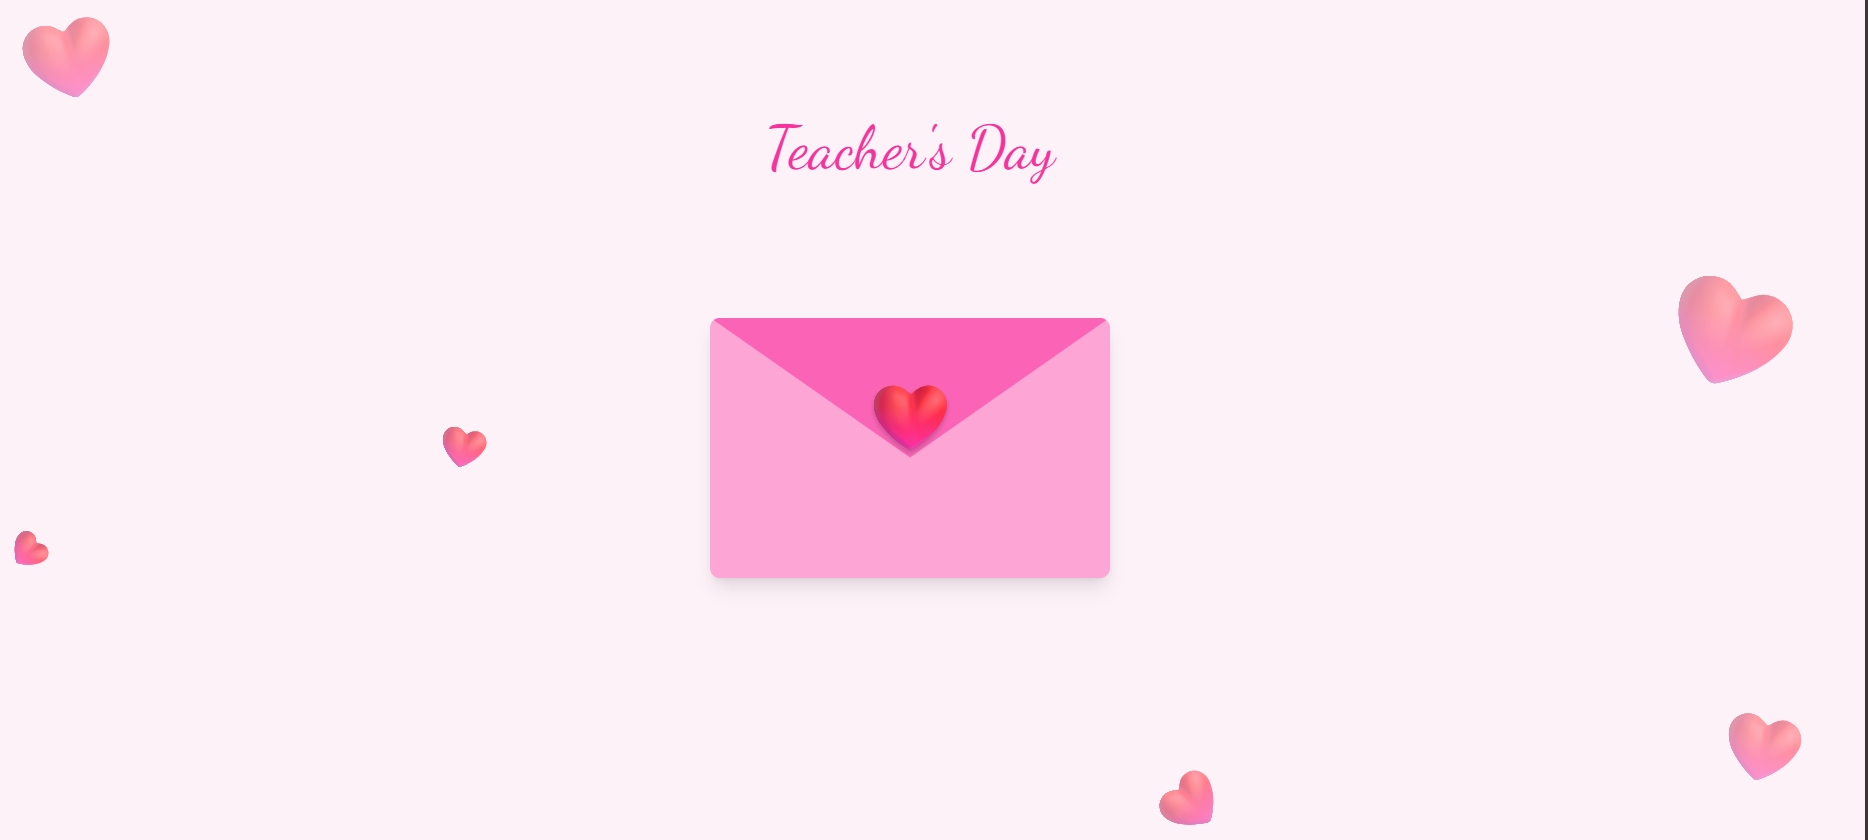
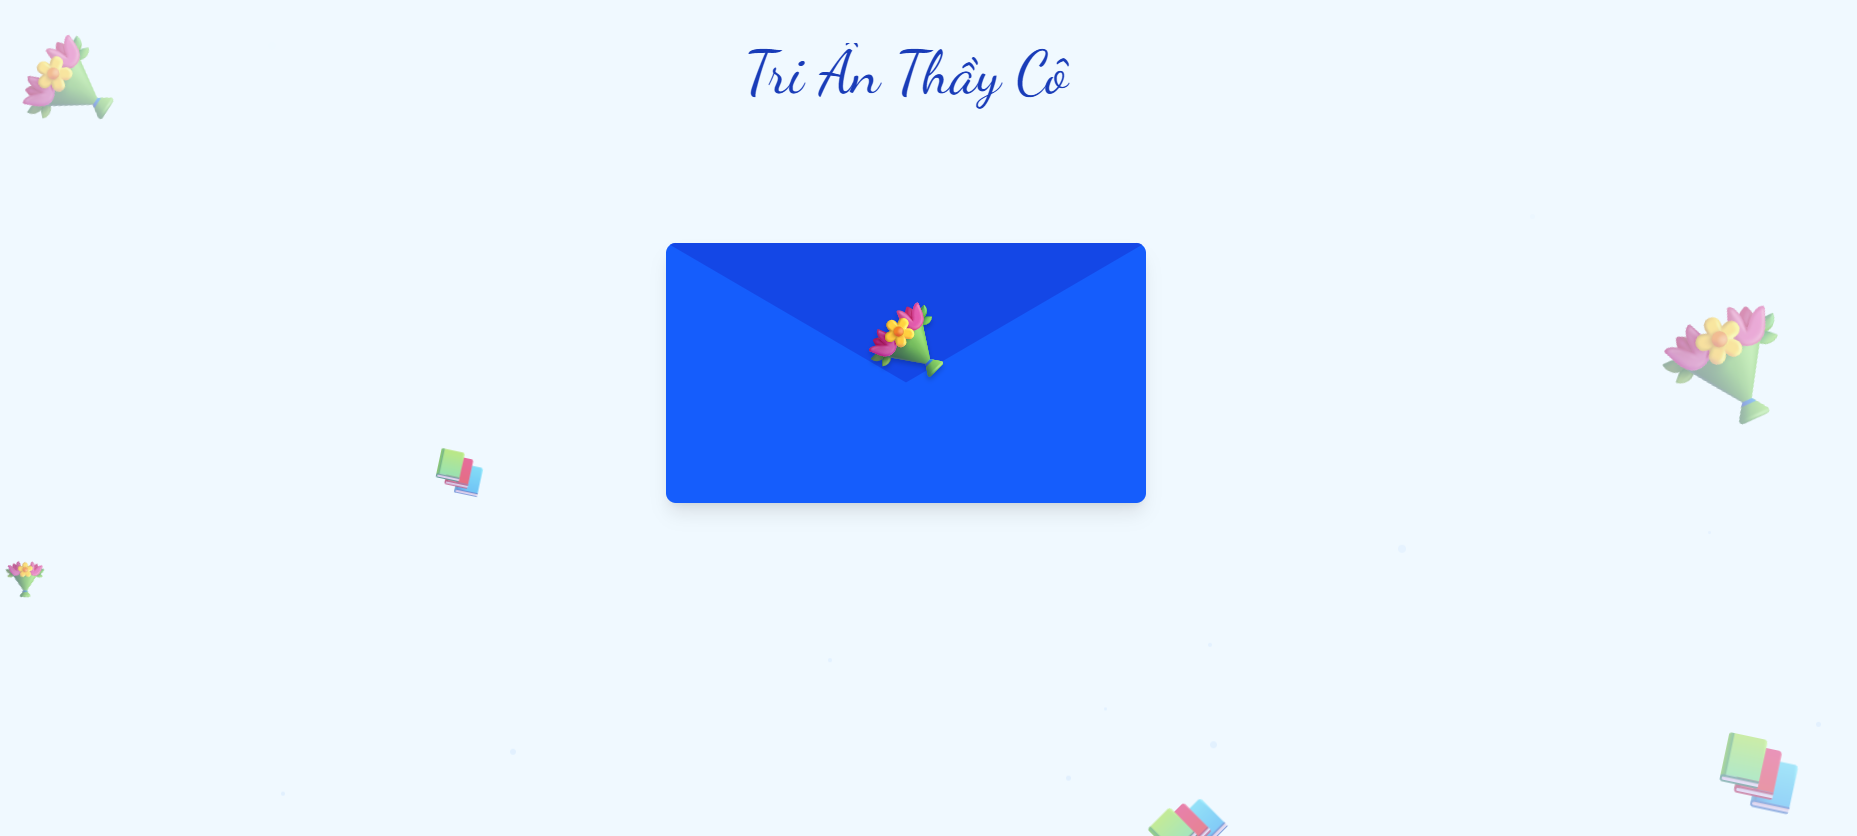
feat(template): enhance letter template
- Added audio playback on open
- Added floating icon effect
- Improved styling and animations

diff --git a/src/pages/templates/20-11/letter-for-2011/index.vue b/src/pages/templates/20-11/letter-for-2011/index.vue
@@ -1,16 +1,31 @@
 <script setup lang="ts">
-import { ref, computed } from "vue";
+// SỬA 1: Import thêm 'nextTick'
+import { ref, computed, nextTick } from "vue";
 import { useTemplateData } from "@/composables/useTemplateData";
 import TEMPLATE_CONFIG from "./config";
 
+// --- Dữ liệu (giữ nguyên) ---
 const { contextData } = useTemplateData(TEMPLATE_CONFIG);
-const letterTitle = computed(() => contextData.value?.content?.[0] || "Teacher's Day");
+const letterTitle = computed(() => contextData.value?.content?.[0] || "Tri Ân Thầy Cô");
 const letterBody = computed(() => contextData.value?.content?.[1] || "...");
 const letterImages = computed(() => contextData.value?.images || []);
+const letterAudio = computed(() => contextData.value?.audios?.[0] || null);
 
+// SỬA 2: Thêm một 'ref' để điều khiển thẻ <audio>
+const audioPlayer = ref<HTMLAudioElement | null>(null);
+
+// --- Logic mở thư ---
 const isOpened = ref(false);
 const openLetter = () => {
   isOpened.value = true;
+  
+  // SỬA 3: Ra lệnh bật nhạc sau khi thư đã mở
+  // (dùng nextTick để đảm bảo thẻ <audio> đã kịp render)
+  nextTick(() => {
+    if (audioPlayer.value) {
+      audioPlayer.value.play().catch(e => console.error("Lỗi phát nhạc:", e));
+    }
+  });
 };
 
 const focusedImage = ref<string | null>(null);
@@ -22,28 +37,47 @@ const getImageStyle = (index: number) => {
     { transform: 'rotate(5deg)', left: 'auto', right: '5rem', top: '0.5rem', zIndex: 2 },
     { transform: 'rotate(15deg)', left: 'auto', right: '1rem', top: '1.5rem', zIndex: 3 },
     { transform: 'rotate(0deg)', left: '3rem', top: '0rem', zIndex: 4 },
-    { transform: 'rotate(-5deg)', left: '7rem', top: '1rem', zIndex: 5 } 
+    { transform: 'rotate(-5deg)', left: '7rem', top: '1rem', zIndex: 5 } // Style cho ảnh thứ 5
   ];
   return styles[index % 5]; 
+};
+
+// --- Logic cho hiệu ứng icon bay ---
+const getParticleStyle = () => {
+  const size = Math.random() * 1.5 + 1; // Kích thước font (rem)
+  const duration = Math.random() * 20 + 15; // Thời gian bay (15-35s)
+  const delay = Math.random() * -20; // Bắt đầu ở các thời điểm khác nhau
+  const left = Math.random() * 100; // Vị trí trái
+
+  return {
+    fontSize: `${size}rem`,
+    left: `${left}%`,
+    animationDuration: `${duration}s`,
+    animationDelay: `${delay}s`,
+  };
 };
 </script>
 
 <template>
-  <div class="relative min-h-screen bg-pink-50 overflow-hidden flex items-center justify-center py-10">
+  <div class="relative min-h-screen bg-amber-50 overflow-hidden flex items-center justify-center py-10">
 
-    <span class="absolute top-10 left-10 text-7xl text-pink-200 opacity-50 transform -rotate-12">❤</span>
-    <span class="absolute top-1/2 left-1/4 text-4xl text-pink-200 opacity-70 transform rotate-12">❤</span>
-    <span class="absolute top-1/3 right-10 text-8xl text-pink-200 opacity-50 transform rotate-20">❤</span>
-    <span class="absolute bottom-10 right-1/3 text-5xl text-pink-200 opacity-60 transform -rotate-45">❤</span>
-    <span class="absolute bottom-1/3 left-10 text-3xl text-pink-200 opacity-70 transform rotate-45">❤</span>
-    <span class="absolute bottom-20 right-10 text-6xl text-pink-200 opacity-50 transform rotate-12">❤</span>
+    <div class="absolute inset-2 z-[25] pointer-events-none">
+      <span 
+        v-for="i in 20" 
+        :key="i"
+        class="particle-icon" 
+        :style="getParticleStyle()"
+      >
+        {{ i % 2 === 0 ? '💐' : '📚' }}
+      </span>
+    </div>
 
     <div class="relative z-10 flex flex-col items-center">
 
       <div class="relative w-96 z-10" style="height: 40rem;"> 
         
         <h1 
-          class="text-5xl font-extralight text-pink-500 text-center mb-4 transition-all duration-500" 
+          class="title-clamp text-5xl font-extralight text-amber-900 text-center mb-4 transition-all duration-500" 
           style="font-family: 'Dancing Script', cursive;"
           :class="{ 'opacity-0 -translate-y-4': isOpened }"
         >
@@ -51,18 +85,37 @@ const getImageStyle = (index: number) => {
         </h1>
         
         <div
-          class="absolute top-40 w-full transition-all duration-[1500ms] ease-in-out transform-gpu"
+          class="absolute top-40 w-full transition-all duration-1000 ease-in-out transform-gpu"
           :class="{
             'opacity-0 translate-y-4 z-10': !isOpened,
-            'opacity-100 z-30 [transform:translateY(-6rem)_rotateY(360deg)]': isOpened
+            'opacity-100 z-30 [transform:translateY(-6rem)]': isOpened
           }"
         >
-          <div class="relative z-10 w-full h-80 bg-pink-100 p-6 rounded-lg shadow-xl flex flex-col">
+          <div class="relative z-10 w-full h-80 paper-texture p-6 rounded-lg flex flex-col">
             <div class="flex-1 overflow-y-auto pr-2 min-h-0">
               <p class="font-serif text-stone-800 whitespace-pre-line text-sm break-words">
                 {{ letterBody }}
               </p>
             </div>
+            
+            <audio v-if="letterAudio" ref="audioPlayer" loop preload="auto">
+              <source :src="letterAudio" type="audio/mpeg">
+            </audio>
+
+          </div>
+
+          <div 
+            v-if="letterImages.length > 0"
+            class="relative z-20 h-48 " > 
+            <img 
+              v-for="(image, index) in letterImages.slice(0, 5)" 
+              :key="image" 
+              :src="image" 
+              alt="Ảnh kỷ niệm" 
+              class="absolute w-28 h-auto p-1 bg-white rounded shadow-md cursor-pointer transition-all duration-100 hover:scale-110 hover:shadow-lg hover:z-20"
+              :style="getImageStyle(index)"
+              @click="focusedImage = image"
+            />
           </div>
           
         </div>
@@ -71,7 +124,10 @@ const getImageStyle = (index: number) => {
           class="absolute top-40 left-0 w-full h-52 z-20 cursor-pointer"
           @click="openLetter"
         >
-          <div class="absolute top-0 left-0 w-full h-full bg-pink-300 rounded-lg shadow-lg">
+          <div 
+            class="absolute top-0 left-0 w-full h-full bg-amber-800 rounded-lg shadow-lg transition-opacity duration-700"
+            :class="{ 'opacity-0': isOpened }"
+          >
             <img 
               v-if="letterImages.length > 0"
               :src="letterImages[0]" 
@@ -80,38 +136,23 @@ const getImageStyle = (index: number) => {
             />
           </div>
           <div
-            class="absolute top-1/2 left-1/2 -translate-x-1/2 -translate-y-[100%] text-red-500 text-6xl z-30 transition-all duration-300"
+            class="absolute top-1/2 left-1/2 -translate-x-1/2 -translate-y-[100%] text-yellow-500 text-6xl z-30 transition-all duration-300"
             :class="{ 'opacity-0 scale-0': isOpened }"
             style="text-shadow: 0 2px 4px rgba(0,0,0,0.2);"
           >
-            ❤
+            💐
           </div>
           <div
-            class="absolute top-0 left-0 w-full h-28 bg-pink-400 rounded-t-lg origin-bottom transition-all duration-1000"
+            class="absolute top-0 left-0 w-full h-28 bg-amber-900 rounded-t-lg origin-bottom transition-all duration-700 ease-in-out"
             style="clip-path: polygon(0 0, 100% 0, 50% 100%);"
-            :class="{ '[transform:rotateX(180deg)]': isOpened }"
+            :class="{ 'opacity-0': isOpened }"
           >
           </div>
         </div>
       </div> 
 
-     <div 
-        v-if="letterImages.length > 0"
-        class="absolute top-[30rem] left-0 w-96 h-48 transition-opacity duration-1000 delay-500"
-        :class="isOpened ? 'opacity-100 z-30' : 'opacity-0 z-10'"
-      >
-        <img 
-          v-for="(image, index) in letterImages.slice(0, 5)" 
-          :key="image" 
-          :src="image" 
-          alt="Ảnh kỷ niệm" 
-          class="absolute w-28 h-auto  bg-white rounded shadow-md cursor-pointer transition-all duration-100 hover:scale-70 hover:shadow-lg hover:z-20"
-          :style="getImageStyle(index)"
-          @click="focusedImage = image"
-        />
-      </div>
-
-    </div> </div> 
+    </div> 
+  </div> 
   
   <div 
     v-if="focusedImage"
@@ -129,23 +170,75 @@ const getImageStyle = (index: number) => {
 
 <style scoped>
 
-/* Import font Lora (serif) và Dancing Script (tiêu đề) */
+/* Import font Lora (serif), Dancing Script (tiêu đề), VÀ Caveat (viết tay) */
 @import url('https://fonts.googleapis.com/css2?family=Lora:wght@400;500&display=swap');
 @import url('https://fonts.googleapis.com/css2?family=Dancing+Script:wght@400;700&display=swap');
+@import url('https://fonts.googleapis.com/css2?family=Caveat:wght@500&display=swap'); 
 
+/*
+  TEXTURE GIẤY
+*/
+.paper-texture {
+background-color: #ffffff;
+background-image: url("https://www.transparenttextures.com/patterns/gray-floral.png");
+  box-shadow: 0 10px 30px -5px rgba(0, 0, 0, 0.15);
+  border: 1px solid rgba(0,0,0,0.05);
+  border-radius: 0.75rem;
+}
+
+/*
+  FONT CHỮ VIẾT TAY
+*/
 .font-serif {
-  font-family: 'Lora', serif;
-  font-size: 15px; 
-  line-height: 1.6; 
+  font-family: 'Caveat', cursive; /* Đổi sang font viết tay */
+  font-size: 19px; 
+  line-height: 1.7; 
 }
 
 [style*="font-family: 'Dancing Script'"] {
   font-family: 'Dancing Script', cursive;
 }
-div[class*="[transform:rotateX(180deg)]"] {
-  transform-style: preserve-3d;
+
+/*
+  GIỚI HẠN TITLE (2 DÒNG VÀ DẤU ...)
+*/
+.title-clamp {
+  display: -webkit-box;
+  -webkit-box-orient: vertical;
+  /* stylelint-disable-next-line property-no-vendor-prefix */
+  -webkit-line-clamp: 2; /* Giới hạn 2 dòng */
+  line-clamp: 2;         /* Tắt warning */
+  overflow: hidden;
+  text-overflow: ellipsis;
+  word-break: break-word;
+  line-height: 1.2;
+  max-height: 3.6em; /* Hết warning */
 }
-.origin-bottom {
-  transform-style: preserve-d;
+
+
+/*
+  Định nghĩa cho icon bay
+*/
+.particle-icon {
+  position: absolute;
+  bottom: -50px; /* Bắt đầu từ dưới */
+  color: rgba(217, 119, 6); /* Sửa lỗi màu (từ 10 -> 0.3) */
+  animation: float-up 20s infinite linear;
+  will-change: transform;
 }
+
+/*
+  SỬA LỖI GÕ SAI: 'translater' -> 'translateY'
+*/
+@keyframes float-up {
+  0% {
+    transform: translateY(0); /* Sửa lỗi gõ sai ở đây */
+    opacity: 0.8;
+  }
+  100% {
+    transform: translateY(-100vh); /* Bay lên hết màn hình */
+    opacity: 0;
+  }
+} 
+
 </style>

diff --git a/src/pages/templates/20-11/letter-for-2011/config.ts b/src/pages/templates/20-11/letter-for-2011/config.ts
@@ -7,7 +7,7 @@ const config: TemplateConfig = {
     createdBy: 'DuongDinhTrac',
     maxImages: 5,
     maxVideos: 0,
-    maxAudios: 0,
+    maxAudios: 1,
     maxContent: 2,
     contentPlaceholders: [
         'Nhập title',
